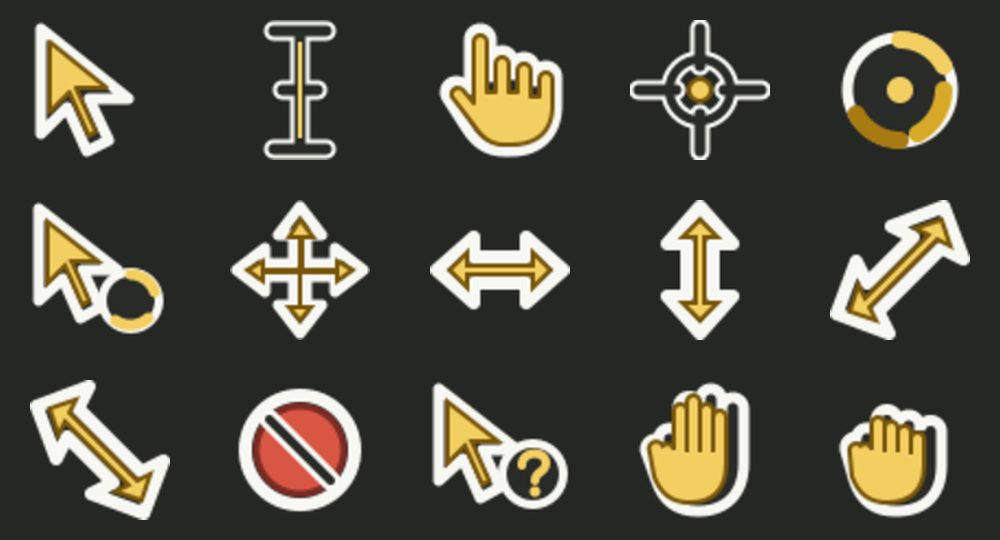
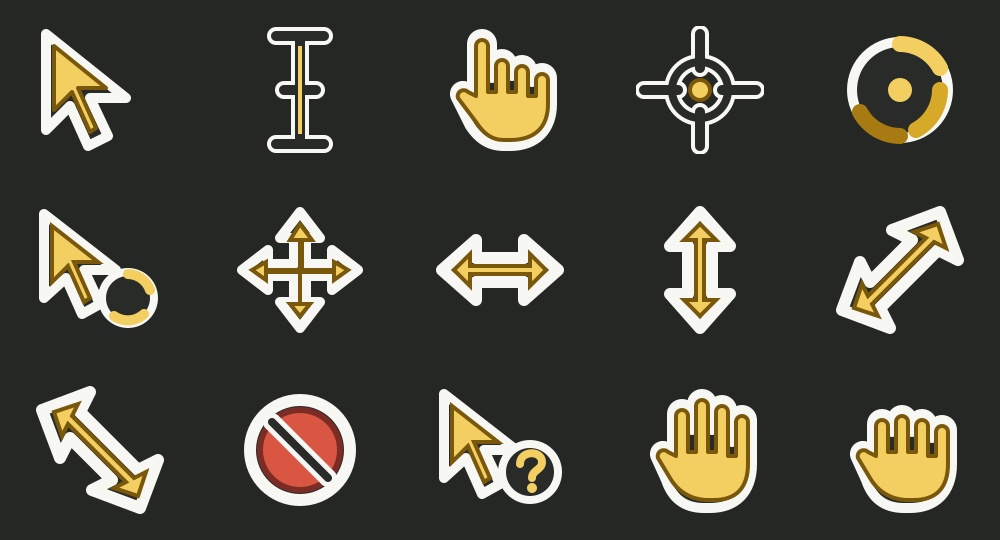
Refine NewBe hand cursors and README preview

diff --git a/README.md b/README.md
@@ -52,7 +52,7 @@ stored NewBe motion-profile selection:
 
 ### Cursor theme
 
-![NewBe cursor theme](docs/images/cursors.png)
+![NewBe cursor theme, including the refined pointer, open-hand, and grabbing cursors](docs/images/cursors.png)
 
 ## Design goals
 
